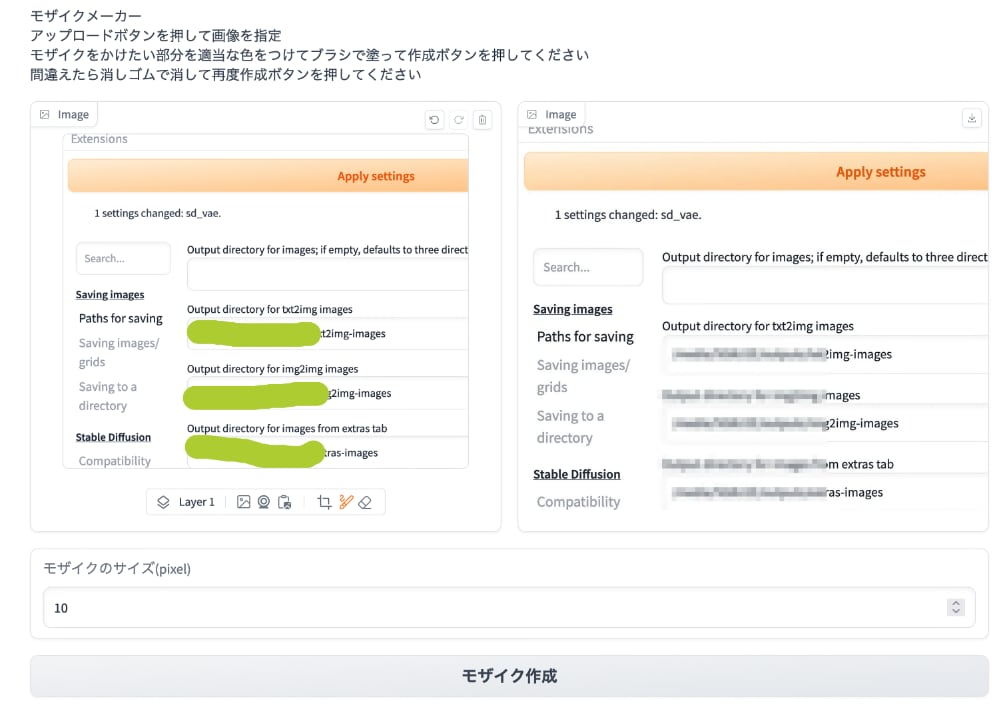
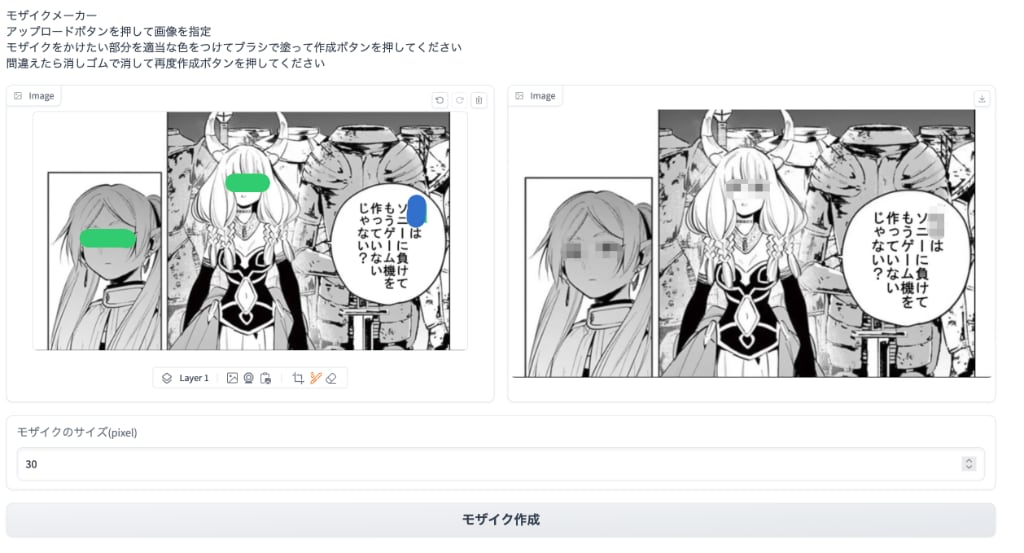
0.2 free-style mosaic region

diff --git a/app.py b/app.py
@@ -3,35 +3,53 @@ import gradio as gr
 import cv2
 from PIL import Image
 
-# calc bounding box
 def makemask(im, mosaic_size):
+  # 以前のストラテジー： maskimage のうち矩形を抜き出し、そこをmosaicにする
+  # 新規ストラテジー：全体のmosaic imageを作り、その上でmaskを使って合成する
+
   maskimage = im["layers"][0]
   mainimage = im["background"]
-  
+
   # かいたmaskイメージをHSV変換し Vだけ使う
   img_hsv = cv2.cvtColor(maskimage, cv2.COLOR_BGR2HSV_FULL)
   _, _, img_v = cv2.split(img_hsv)
 
-  # V明るさを使い boundingRectを計算
-  x,y,w,h = cv2.boundingRect(img_v)
+  # 2値化
+  _, img_thr = cv2.threshold(img_v, 10, 255, cv2.THRESH_BINARY )
+
+  # BGRAでないとnumpyで計算できないのでカラーにする
+  img_v_color = cv2.cvtColor(img_thr, cv2.COLOR_GRAY2BGRA)
+  maskv = np.array(img_v_color)
 
   # NumPy からPillowへの変換
   pimage = Image.fromarray(mainimage)
 
-  # 関心領域をゲット
-  roi = pimage.crop((x, y, x+w, y+h))
+  # roiへコピー
+  roi = pimage
+  h, w, _ = mainimage.shape
+
+  # mosaicは2以上で、イメージサイズよりは小さいこと
+  mosaic_size = max(2,min(w,min(h,mosaic_size)))
   shrink_w, shrink_h = max(1, w // mosaic_size), max(1, h // mosaic_size)
+
   # 小さくしてから
   roi = roi.resize((shrink_w, shrink_h), Image.Resampling.BICUBIC)
   # 引き延ばす
   roi = roi.resize((w, h), Image.Resampling.NEAREST)
-  # Pillow imageに貼り付ける
-  pimage.paste(roi, (x, y, x+w, y+h))
+
+  # mosaic image を numpy imageとする
+  mosaicimg = np.array(roi)
+
+  # 合成
+  newimg = mainimage*((255-maskv)/255.0)+mosaicimg*(maskv/255.0)
+
+  # uint8へ変換するために0-255にする
+  newimg = newimg.clip(0, 255)
 
   # PillowからNumPyへの変換
-  newimg = np.array(pimage)  
+  newimg2 = np.array(newimg.astype(np.uint8))
 
-  return newimg
+  return newimg2
 
 with gr.Blocks() as demo:
   gr.HTML("モザイクメーカー<br>アップロードボタンを押して画像を指定<br>モザイクをかけたい部分を適当な色をつけてブラシで塗って作成ボタンを押してください<br>間違えたら消しゴムで消して再度作成ボタンを押してください")

diff --git a/README.md b/README.md
@@ -19,4 +19,7 @@
   - すると右画面にモザイクかけた画像が生成
   - 右画面の右上のアイコンをクリックしてモザイク画像をダウンロード
 
+- 変更履歴
+  - 指定した場所を矩形モザイクから領域を自由にするよう変更した
+
 - 改造自由
